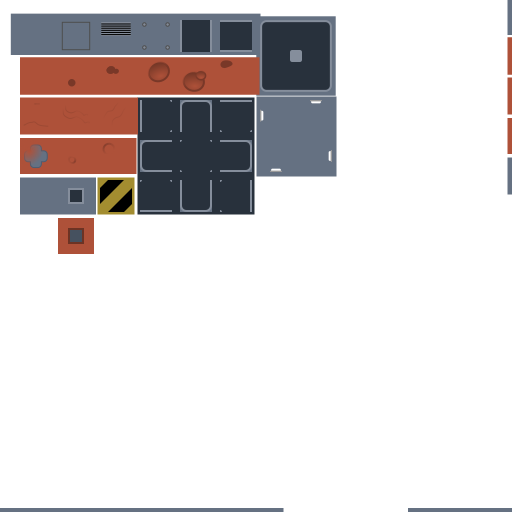
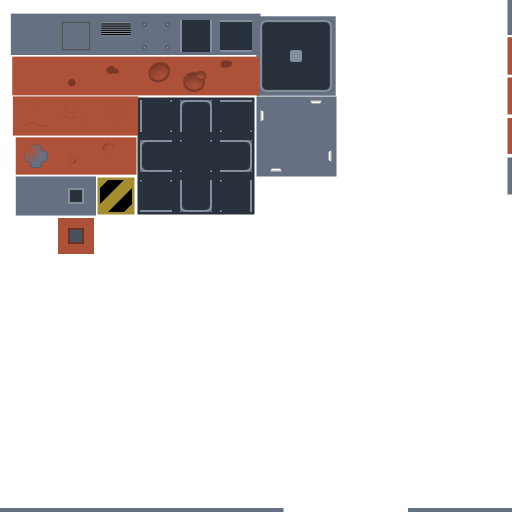
Finally remove cracking

Changed region(s): [[0.0, 0.0938, 0.5, 0.4375]]

diff --git a/mars_margin.tsx b/mars_margin.tsx
@@ -1,10 +1,189 @@
 <?xml version="1.0" encoding="UTF-8"?>
 <tileset name="Mars" tilewidth="32" tileheight="32" spacing="8" margin="20" tilecount="144" columns="12">
  <image source="gfx/mars_tiles.png" width="512" height="512"/>
- <tile id="13" probability="0.1"/>
- <tile id="14" probability="0.1"/>
- <tile id="15" probability="0.05"/>
- <tile id="16" probability="0.05"/>
- <tile id="17" probability="0.1"/>
- <tile id="36" probability="0.02"/>
+ <tile id="0">
+  <properties>
+   <property name="wall" type="int" value="0"/>
+  </properties>
+ </tile>
+ <tile id="1">
+  <properties>
+   <property name="wall" type="int" value="0"/>
+  </properties>
+ </tile>
+ <tile id="2">
+  <properties>
+   <property name="wall" type="int" value="0"/>
+  </properties>
+ </tile>
+ <tile id="3">
+  <properties>
+   <property name="wall" type="int" value="0"/>
+  </properties>
+ </tile>
+ <tile id="4">
+  <properties>
+   <property name="wall" type="int" value="1"/>
+  </properties>
+ </tile>
+ <tile id="5">
+  <properties>
+   <property name="wall" type="int" value="1"/>
+  </properties>
+ </tile>
+ <tile id="6">
+  <properties>
+   <property name="wall" type="int" value="1"/>
+  </properties>
+ </tile>
+ <tile id="7">
+  <properties>
+   <property name="wall" type="int" value="1"/>
+  </properties>
+ </tile>
+ <tile id="12">
+  <properties>
+   <property name="wall" type="int" value="0"/>
+  </properties>
+ </tile>
+ <tile id="13" probability="0.1">
+  <properties>
+   <property name="wall" type="int" value="0"/>
+  </properties>
+ </tile>
+ <tile id="14" probability="0.1">
+  <properties>
+   <property name="wall" type="int" value="0"/>
+  </properties>
+ </tile>
+ <tile id="15" probability="0.05">
+  <properties>
+   <property name="wall" type="int" value="0"/>
+  </properties>
+ </tile>
+ <tile id="16" probability="0.05">
+  <properties>
+   <property name="wall" type="int" value="0"/>
+  </properties>
+ </tile>
+ <tile id="17" probability="0.1">
+  <properties>
+   <property name="wall" type="int" value="0"/>
+  </properties>
+ </tile>
+ <tile id="18">
+  <properties>
+   <property name="wall" type="int" value="1"/>
+  </properties>
+ </tile>
+ <tile id="19">
+  <properties>
+   <property name="wall" type="int" value="1"/>
+  </properties>
+ </tile>
+ <tile id="24">
+  <properties>
+   <property name="wall" type="int" value="0"/>
+  </properties>
+ </tile>
+ <tile id="25">
+  <properties>
+   <property name="wall" type="int" value="0"/>
+  </properties>
+ </tile>
+ <tile id="26">
+  <properties>
+   <property name="wall" type="int" value="0"/>
+  </properties>
+ </tile>
+ <tile id="27">
+  <properties>
+   <property name="wall" value="1"/>
+  </properties>
+ </tile>
+ <tile id="28">
+  <properties>
+   <property name="wall" value="1"/>
+  </properties>
+ </tile>
+ <tile id="29">
+  <properties>
+   <property name="wall" value="1"/>
+  </properties>
+ </tile>
+ <tile id="30">
+  <properties>
+   <property name="wall" type="int" value="0"/>
+  </properties>
+ </tile>
+ <tile id="31">
+  <properties>
+   <property name="wall" type="int" value="0"/>
+  </properties>
+ </tile>
+ <tile id="36" probability="0.02">
+  <properties>
+   <property name="wall" type="int" value="0"/>
+  </properties>
+ </tile>
+ <tile id="37">
+  <properties>
+   <property name="wall" type="int" value="0"/>
+  </properties>
+ </tile>
+ <tile id="38">
+  <properties>
+   <property name="wall" type="int" value="0"/>
+  </properties>
+ </tile>
+ <tile id="39">
+  <properties>
+   <property name="wall" value="1"/>
+  </properties>
+ </tile>
+ <tile id="40">
+  <properties>
+   <property name="wall" value="1"/>
+  </properties>
+ </tile>
+ <tile id="41">
+  <properties>
+   <property name="wall" value="1"/>
+  </properties>
+ </tile>
+ <tile id="42">
+  <properties>
+   <property name="wall" type="int" value="0"/>
+  </properties>
+ </tile>
+ <tile id="43">
+  <properties>
+   <property name="wall" type="int" value="0"/>
+  </properties>
+ </tile>
+ <tile id="49">
+  <properties>
+   <property name="wall" type="int" value="2"/>
+  </properties>
+ </tile>
+ <tile id="51">
+  <properties>
+   <property name="wall" value="1"/>
+  </properties>
+ </tile>
+ <tile id="52">
+  <properties>
+   <property name="wall" value="1"/>
+  </properties>
+ </tile>
+ <tile id="53">
+  <properties>
+   <property name="wall" value="1"/>
+  </properties>
+ </tile>
+ <tile id="61">
+  <properties>
+   <property name="wall" type="int" value="2"/>
+  </properties>
+ </tile>
 </tileset>

diff --git a/maprenderer.py b/maprenderer.py
@@ -81,6 +81,7 @@ class MapRenderer:
         self.light_tiles = {}
         self.collision_gids = set()
         self.collision_tiles = {}
+
         rows = (tileset.tilecount + tileset.columns - 1) // tileset.columns
 
         for tile in tileset.tiles:
@@ -109,10 +110,10 @@ class MapRenderer:
         tile_map = bytearray()
         verts = []
         tcs = []
-        epsilon = 1
+        epsilon = 0
         for layernum, layer in enumerate(tile_layers):
             for i, tile in enumerate(layer.tiles):
-                if tile.gid == 0 or tile.gid not in self.tiles:
+                if tile.gid == 0:
                     continue
                 y, x = divmod(i, self.width)
                 y = self.height - y - 1
@@ -143,12 +144,11 @@ class MapRenderer:
                         Light((lx + x, ly + y))
                     )
 
-#        self.group = pyglet.sprite.SpriteGroup(
-#            self.tiles_tex.get_texture(),
-#            gl.GL_SRC_ALPHA, gl.GL_ONE_MINUS_SRC_ALPHA
-#            #gl.GL_ONE, gl.GL_ZERO
-#        )
-        self.group = pyglet.graphics.Group()
+        self.group = pyglet.sprite.SpriteGroup(
+            self.tiles_tex.get_texture(),
+            gl.GL_SRC_ALPHA, gl.GL_ONE_MINUS_SRC_ALPHA
+            #gl.GL_ONE, gl.GL_ZERO
+        )
         self.vl = self.batch.add(
             len(verts) // 2,
             gl.GL_QUADS,
@@ -158,16 +158,5 @@ class MapRenderer:
         )
 
     def render(self):
-        gl.glDisable(gl.GL_DEPTH_TEST)
-        gl.glDisable(gl.GL_BLEND)
-        gl.glEnable(gl.GL_TEXTURE_2D)
-        gl.glBindTexture(gl.GL_TEXTURE_2D, self.tiles_tex.get_texture().id)
-        gl.glTexParameteri(gl.GL_TEXTURE_2D, gl.GL_TEXTURE_MIN_FILTER, gl.GL_LINEAR_MIPMAP_NEAREST)
-        gl.glTexParameteri(gl.GL_TEXTURE_2D, gl.GL_TEXTURE_MAG_FILTER, gl.GL_LINEAR)
-        gl.glTexParameteri(gl.GL_TEXTURE_2D, gl.GL_TEXTURE_WRAP_S, gl.GL_CLAMP_TO_EDGE)
-        gl.glTexParameteri(gl.GL_TEXTURE_2D, gl.GL_TEXTURE_WRAP_T, gl.GL_CLAMP_TO_EDGE)
-        gl.glGenerateMipmap(gl.GL_TEXTURE_2D);
-
         self.batch.draw()
-        gl.glEnable(gl.GL_DEPTH_TEST)
 
